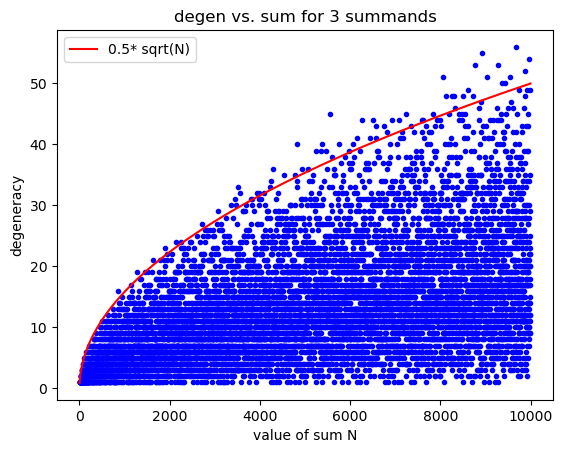
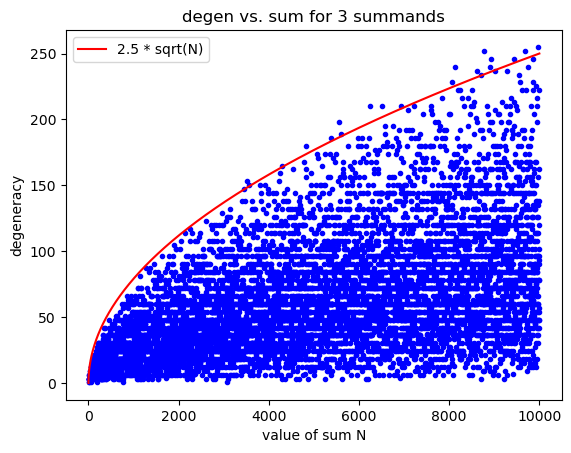
changed break point of degen loop

diff --git a/Sum_of_squares.py b/Sum_of_squares.py
@@ -71,11 +71,12 @@ def Sum_of_n(num,n):
     return [False] + n * ["z"]
 
 
-#finding gegeneracy
+#finding degeneracy
 def degeneracy(num,n):
     #returns array containing sum_of_n and degeneracy
 
     if n == 1:
+        #xxxxxxxxx
         return [Is_Square(num),1,[math.sqrt(num)]]
 
     sum1 = Sum_of_n(num,n)
@@ -90,7 +91,7 @@ def degeneracy(num,n):
         #return array
         arr = []
 
-        while start**2 >= num/n : #For degeneracy where the order of the summands matters, set num/n -> 1
+        while start**2 >= 1 : #For degeneracy where the order of the summands matters, set num/n -> 1
 
             #calculate difference of num and start^2
             b = num - (start **2)
